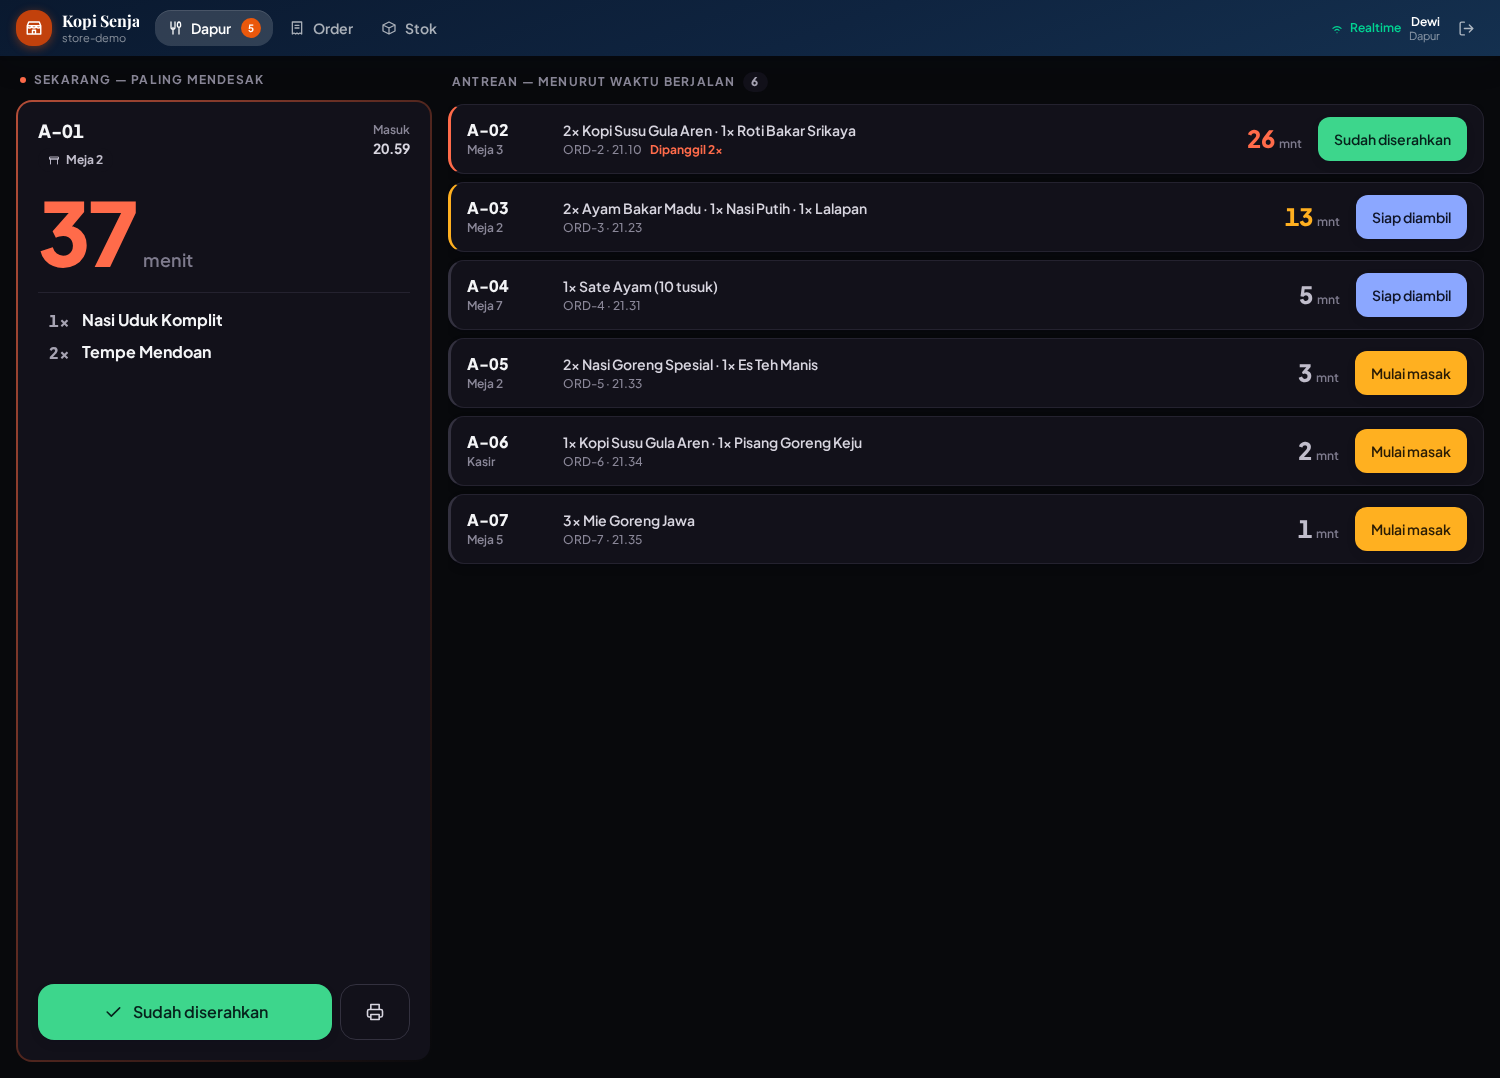
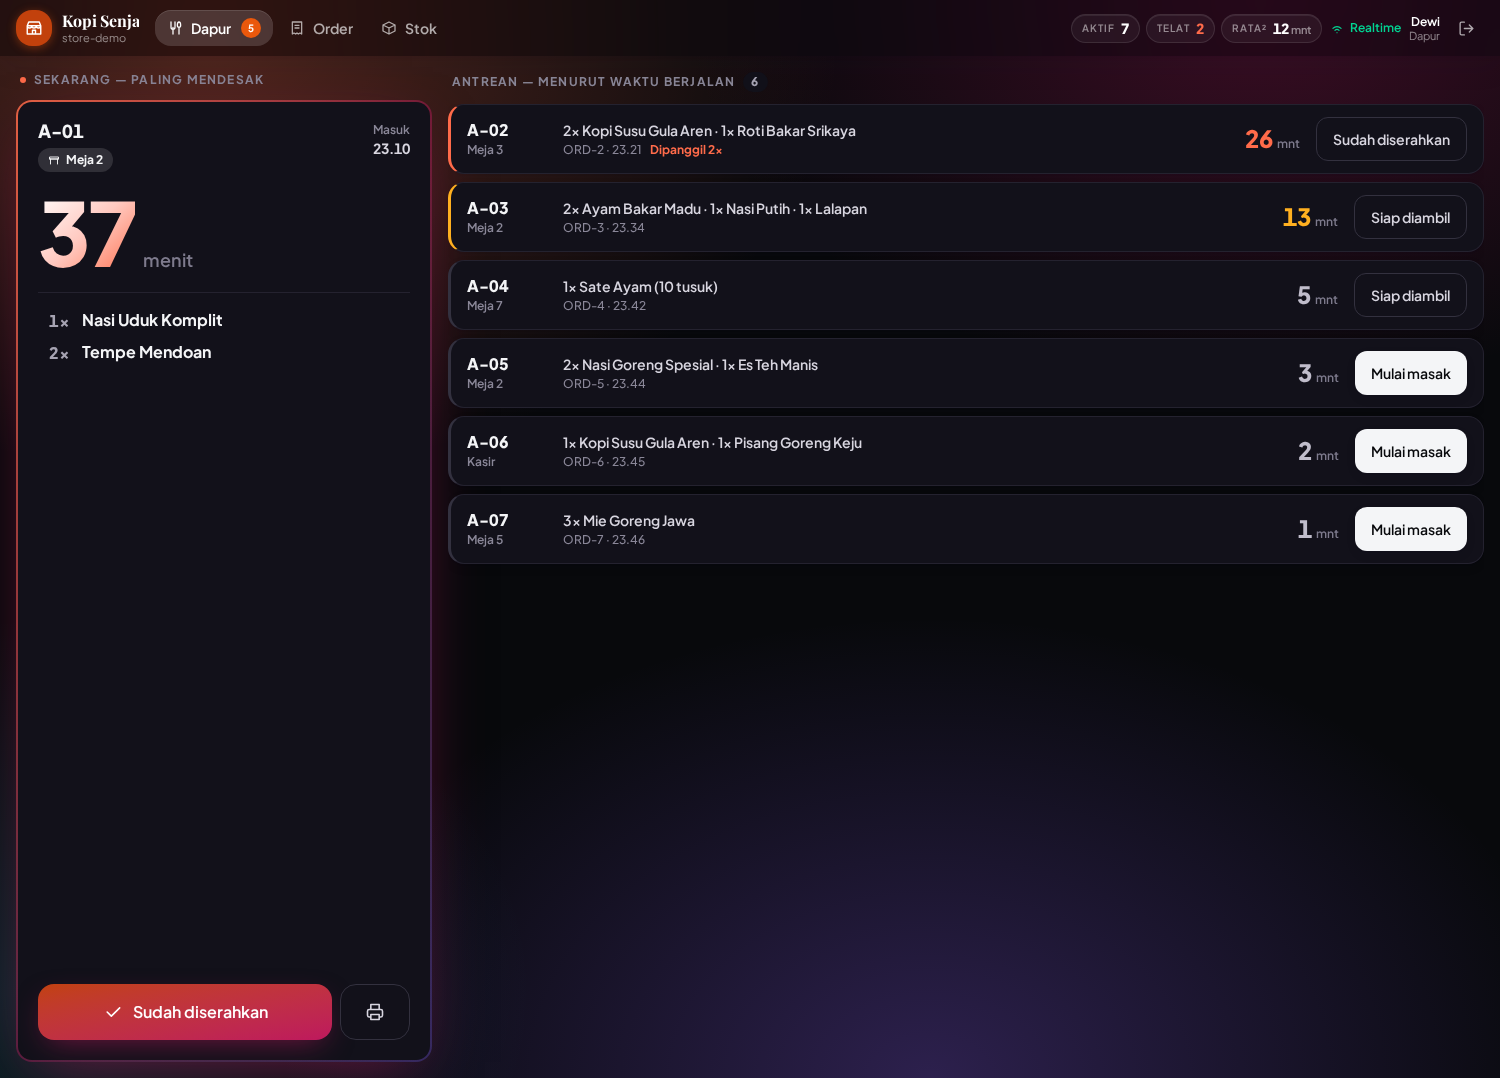
Buka pendar aurora tema Fokus yang tertutup, samakan dengan prototipenya
Tema Fokus tidak terlihat seperti rancangan yang sudah disetujui. Ternyata
bukan karena pendarannya belum ditulis — pendar itu sudah ada di app.css
sejak awal, tapi tidak pernah terlihat sama sekali.

Sebabnya: akar AdminShell berlatar `bg-ink-50` pekat, dan lapisan itu
menutupi `background-image` pada `body`. Seluruh pendar di belakangnya
tertutup rapat. Warna dasarnya sudah datang dari `body` di @layer base,
jadi lapisan di akar itu memang tidak diperlukan.

Yang diperbaiki:

- Akar tiap layar tidak lagi memasang latar pekat; aurora jadi terlihat.
- Pendar diperkuat (alpha 0,20-0,28 → 0,24-0,30) karena layar dapur sering
  dilihat dari jauh.
- Bilah atas jadi kaca gelap tembus pandang. `surface-dark` bawaan adalah
  gradien navy pekat untuk header TV antrian; di tema Fokus navy itu
  bertabrakan dengan pendar plum dan memotong aurora di tepi atas.
- Kartu utama: bingkai bergradien oranye→magenta→violet dengan pendar
  luar, angka menit bergradien, tombol utama bergradien (`aurora`).
- Lencana "Meja 2" di kartu utama memakai `chip`, bukan `ink-100`. Di tema
  Fokus keduanya bernilai sama dengan `surface`, jadi lencana itu tidak
  punya latar sama sekali dan menghilang.
- Tombol baris antrean dibuat netral. Sebelumnya empat sinyal berwarna
  berebut perhatian di satu baris; sekarang warna dibawa bilah aksen kiri,
  angka menit, dan teks tahap saja.
- Tiga pil statistik (Aktif/Telat/Rata²) di bilah atas, khusus tata letak
[…]

diff --git a/src/surfaces/admin/KitchenView.tsx b/src/surfaces/admin/KitchenView.tsx
@@ -101,6 +101,31 @@ function umurMenit(order: Order, sekarang: number): number {
   return Math.max(0, Math.floor((sekarang - Date.parse(order.createdAt)) / 60_000));
 }
 
+/**
+ * Ringkasan satu layar dapur untuk pil statistik di bilah atas.
+ *
+ * Diekspor supaya bilah atas dan isi layar memakai ambang yang sama persis.
+ * Kalau `MENIT_TERLAMBAT` di sini diubah, angka "TELAT" di atas ikut berubah —
+ * tidak mungkin keduanya berbeda cerita.
+ */
+export function statistikDapur(daftar: readonly Order[], sekarang: number) {
+  // `ready` ikut dihitung aktif. Pesanan yang sudah matang tapi belum
+  // diserahkan masih ada di tangan dapur — justru itu yang paling perlu
+  // diawasi. Kalau hanya pending+processing yang dihitung, angka "Telat"
+  // akan selalu 0 di jam sibuk: yang telat biasanya sudah matang dan
+  // menunggu diambil, bukan yang masih dimasak.
+  const aktif = daftar.filter(
+    (o) => o.status === 'pending' || o.status === 'processing' || o.status === 'ready',
+  );
+  const umur = aktif.map((o) => umurMenit(o, sekarang));
+  const jumlah = umur.length;
+  return {
+    aktif: jumlah,
+    telat: umur.filter((m) => m >= MENIT_TERLAMBAT).length,
+    rata: jumlah === 0 ? 0 : Math.round(umur.reduce((s, m) => s + m, 0) / jumlah),
+  };
+}
+
 /* ==========================================================================
    Aksi — satu definisi untuk kedua tata letak
    ========================================================================= */
@@ -389,7 +414,18 @@ function BarisAntrean({ order, sekarang, sibuk, onAdvance }: BarisAntreanProps) 
         <span class="ml-1 text-xs font-semibold text-ink-400">mnt</span>
       </p>
 
-      <Button variant={aksi.variant} size="md" loading={sibuk} onClick={onAdvance} class="shrink-0">
+      {/* Tombol baris dibuat netral, tidak diwarnai status. Warnanya sudah
+          dibawa bilah aksen kiri, angka menit, dan teks tahap; kalau tombolnya
+          ikut berwarna, empat sinyal berebut perhatian dan tidak ada yang
+          menonjol. Hanya "mulai masak" yang diberi isian penuh — itu yang
+          dicari mata juru masak begitu ada pesanan baru. */}
+      <Button
+        variant={order.status === 'pending' ? 'secondary' : 'outline'}
+        size="md"
+        loading={sibuk}
+        onClick={onAdvance}
+        class="shrink-0"
+      >
         {aksi.label}
       </Button>
     </article>
@@ -422,21 +458,24 @@ function DapurFokus({ daftar, sekarang, sibuk, onAdvance, onPrint }: FokusProps)
   const aksiUtama = aksiUntuk(utama);
   const menitUtama = umurMenit(utama, sekarang);
 
-  // Cincin luar kartu utama: makin telat, makin panas warnanya. Ini yang
-  // membuat kartu itu tetap menonjol bahkan saat layar dilihat dari jauh.
+  // Bingkai kartu utama: gradien hangat oranye→magenta→violet, senada pendar
+  // aurora di latarnya. Makin telat, ujung hangatnya makin merah — sinyal
+  // keterlambatan tetap terbaca, tapi bingkainya bukan lagi blok warna rata.
   const cincin =
     tingkatUtama === 'terlambat'
-      ? 'from-cancelled/70 via-cancelled/30'
+      ? 'from-cancelled/85 via-[#be185d]/45 to-[#8b5cf6]/30'
       : tingkatUtama === 'peringatan'
-        ? 'from-pending/70 via-pending/30'
-        : 'from-brand-600/60 via-brand-600/25';
+        ? 'from-pending/80 via-[#be185d]/40 to-[#8b5cf6]/28'
+        : 'from-[#c2410c]/80 via-[#be185d]/45 to-[#8b5cf6]/30';
 
-  const warnaAngka =
+  // Angka umur memakai huruf bergradien, bukan satu warna rata. Ujung
+  // hangatnya bergeser mengikuti keterlambatan supaya sinyalnya tidak hilang.
+  const angkaGradien =
     tingkatUtama === 'terlambat'
-      ? 'text-cancelled'
+      ? 'from-white via-[#ffc9c0] to-[#ff6b4a]'
       : tingkatUtama === 'peringatan'
-        ? 'text-pending'
-        : 'text-ink-900';
+        ? 'from-white via-[#ffe6b0] to-[#ffb020]'
+        : 'from-white via-[#ffd2c2] to-[#ff8a6b]';
 
   return (
     <div class="flex h-[calc(100dvh-56px)] gap-4 p-4">
@@ -447,14 +486,23 @@ function DapurFokus({ daftar, sekarang, sibuk, onAdvance, onPrint }: FokusProps)
           Sekarang — paling mendesak
         </p>
 
-        <div class={['flex min-h-0 flex-1 rounded-2xl bg-gradient-to-br to-transparent p-[2px]', cincin].join(' ')}>
+        <div
+          class={[
+            'flex min-h-0 flex-1 rounded-2xl bg-gradient-to-br p-[2px]',
+            'shadow-[0_20px_60px_-20px_rgb(190_24_93/0.55)]',
+            cincin,
+          ].join(' ')}
+        >
           <article class="flex min-h-0 flex-1 flex-col gap-4 overflow-y-auto rounded-[14px] bg-surface p-5">
             <header class="flex items-start justify-between gap-3">
               <div class="min-w-0">
                 <p class="num text-lg leading-none font-black text-ink-900">
                   {utama.queueNumber ?? '—'}
                 </p>
-                <p class="mt-2 inline-flex items-center gap-1.5 rounded-full bg-ink-100 px-2.5 py-1 text-xs font-bold text-ink-700">
+                {/* `bg-chip`, bukan `bg-ink-100`: di tema Fokus keduanya
+                    bernilai sama dengan `--color-surface`, jadi lencana ini
+                    tidak punya latar sama sekali dan menghilang. */}
+                <p class="mt-2 inline-flex items-center gap-1.5 rounded-full bg-chip px-2.5 py-1 text-xs font-bold text-on-chip">
                   <Icon name="table" size={12} />
                   {utama.tableNumber === null ? 'Kasir' : `Meja ${utama.tableNumber}`}
                 </p>
@@ -466,8 +514,15 @@ function DapurFokus({ daftar, sekarang, sibuk, onAdvance, onPrint }: FokusProps)
             </header>
 
             {/* Angka umur — elemen terkuat di seluruh layar. */}
-            <p class={['num flex items-baseline gap-2 leading-none font-black', warnaAngka].join(' ')}>
-              <span class="text-[5.5rem] tracking-tighter">{menitUtama}</span>
+            <p class="num flex items-baseline gap-2 leading-none font-black">
+              <span
+                class={[
+                  'bg-gradient-to-br bg-clip-text text-[5.5rem] tracking-tighter text-transparent',
+                  angkaGradien,
+                ].join(' ')}
+              >
+                {menitUtama}
+              </span>
               <span class="text-lg font-semibold text-ink-400">menit</span>
             </p>
 
@@ -496,7 +551,7 @@ function DapurFokus({ daftar, sekarang, sibuk, onAdvance, onPrint }: FokusProps)
 
             <footer class="flex items-stretch gap-2">
               <Button
-                variant={aksiUtama.variant}
+                variant="aurora"
                 size="lg"
                 icon={aksiUtama.icon}
                 loading={sibuk === utama.id}

diff --git a/src/surfaces/admin/AdminShell.tsx b/src/surfaces/admin/AdminShell.tsx
@@ -38,7 +38,7 @@ import {
 import { ROLE_LABEL, type AdminView } from '../../domain/permissions.ts';
 import { StockView } from './StockView.tsx';
 import { AnalyticsView } from './AnalyticsView.tsx';
-import { KitchenView } from './KitchenView.tsx';
+import { KitchenView, statistikDapur } from './KitchenView.tsx';
 import { LoginView } from './LoginView.tsx';
 import { MenuView } from './MenuView.tsx';
 import { OrdersView } from './OrdersView.tsx';
@@ -51,6 +51,8 @@ import {
   type Periode,
 } from './useAdminActions.ts';
 import { orderStats, orders, displayOrder, categories, menus, tables, loading } from '../../state/store.ts';
+import { tataLetakTema } from '../../domain/theme.ts';
+import { theme } from '../../state/theme.ts';
 
 /* ==========================================================================
    Navigasi
@@ -74,6 +76,34 @@ function tabDariUrl(): Tab {
   return TABS.some((x) => x.id === t) ? (t as Tab) : 'kasir';
 }
 
+/** Pil angka ringkas di bilah atas — dipakai layar dapur. */
+function PilStat({
+  label,
+  nilai,
+  satuan,
+  panas,
+}: {
+  label: string;
+  nilai: string;
+  satuan?: string;
+  panas?: boolean;
+}) {
+  return (
+    <span class="flex items-center gap-1.5 rounded-lg border border-white/10 bg-white/5 px-2.5 py-1.5 shadow-[inset_0_1px_0_rgb(255_255_255/0.08)]">
+      <span class="text-[10px] font-semibold tracking-widest text-white/50 uppercase">{label}</span>
+      <span
+        class={[
+          'num text-sm leading-none font-black',
+          panas ? 'text-cancelled' : 'text-white',
+        ].join(' ')}
+      >
+        {nilai}
+        {satuan ? <span class="ml-0.5 text-[11px] font-semibold text-white/50">{satuan}</span> : null}
+      </span>
+    </span>
+  );
+}
+
 /* ==========================================================================
    Shell
    ========================================================================= */
@@ -84,6 +114,23 @@ export function AdminShell() {
   const [periode, setPeriode] = useState<Periode>('hari');
 
   const aksi = useAdminActions();
+
+  // Jam untuk pil statistik dapur. Berdetak hanya saat tab dapur terbuka —
+  // di tab lain tidak ada yang perlu dihitung ulang tiap 10 detik.
+  const [sekarang, setSekarang] = useState(() => Date.now());
+  const dapurAktif = tab === 'dapur' && tataLetakTema(theme.value) === 'fokus';
+  useEffect(() => {
+    if (!dapurAktif) return;
+    setSekarang(Date.now());
+    const id = setInterval(() => setSekarang(Date.now()), 10_000);
+    return () => clearInterval(id);
+  }, [dapurAktif]);
+
+  // Pil statistik hanya untuk tata letak Fokus — itu bagian dari rancangan
+  // layar itu. Papan tiga kolom sudah punya hitungannya sendiri di tiap judul
+  // kolom, dan menambah tiga pil di atasnya membuat bilah atas penuh tanpa
+  // menambah informasi yang belum ada.
+  const dapur = dapurAktif ? statistikDapur(orders.value, sekarang) : null;
 
   /* --- Muat awal -------------------------------------------------------- */
 
@@ -157,7 +204,7 @@ export function AdminShell() {
 
   if (!siap) {
     return (
-      <div class="flex min-h-dvh items-center justify-center bg-ink-50">
+      <div class="flex min-h-dvh items-center justify-center">
         <LoadingBlock label="Menyiapkan…" />
       </div>
     );
@@ -170,9 +217,17 @@ export function AdminShell() {
   const s = settings.value;
 
   return (
-    <div class="min-h-dvh bg-ink-50">
+    // Sengaja TANPA `bg-ink-50`. Warna dasar sudah datang dari `body`, dan
+    // lapisan pekat di sini menutupi pendar aurora tema Fokus sepenuhnya —
+    // seluruh pendar di app.css tidak pernah terlihat sampai lapisan ini
+    // dibuang.
+    <div class="min-h-dvh">
       {/* ================================================================ */}
-      <header class="surface-dark sticky top-0 z-30 text-white shadow-lift">
+      {/* Efek kaca hanya di tema Fokus, dan dipasang sebagai kelas Tailwind —
+          bukan di app.css — karena minifier menggabungkan `backdrop-filter`
+          dengan varian `-webkit-`-nya dan menyisakan yang berawalan saja, yang
+          tidak didukung Chrome. Lihat catatan di app.css. */}
+      <header class="surface-dark sticky top-0 z-30 text-white shadow-lift [[data-theme=fokus]_&]:backdrop-blur-xl [[data-theme=fokus]_&]:backdrop-saturate-150">
         <div class="flex items-center gap-4 px-4 py-2.5">
           {/* Identitas toko --------------------------------------------- */}
           <div class="flex min-w-0 items-center gap-2.5">
@@ -225,6 +280,15 @@ export function AdminShell() {
 
           {/* Kanan -------------------------------------------------------- */}
           <div class="flex shrink-0 items-center gap-2">
+            {/* Pil statistik dapur. Hanya muncul di tab itu — angkanya khusus
+                dapur, dan di tab kasir atau menu justru menyesatkan. */}
+            {dapur ? (
+              <div class="hidden items-center gap-1.5 lg:flex">
+                <PilStat label="Aktif" nilai={String(dapur.aktif)} />
+                <PilStat label="Telat" nilai={String(dapur.telat)} panas={dapur.telat > 0} />
+                <PilStat label="Rata²" nilai={String(dapur.rata)} satuan="mnt" />
+              </div>
+            ) : null}
             <IndikatorTulis />
             <ConnectionPill status={realtimeStatus.value} dark />
             <span class="hidden text-right lg:block">

diff --git a/src/styles/app.css b/src/styles/app.css
@@ -274,15 +274,39 @@
    Dipasang sebagai `background-image` pada body, bukan sebagai elemen
    ber-`position:fixed`. Alasannya: elemen fixed butuh konteks penumpukan
    sendiri, dan itu mudah salah di aplikasi ber-modal — modal bisa tertinggal
-   di belakang pendar. Sebagai latar body, tidak ada lapisan baru sama sekali. */
+   di belakang pendar. Sebagai latar body, tidak ada lapisan baru sama sekali.
+
+   SYARAT: tidak boleh ada elemen leluhur yang menutupi body dengan warna
+   rata. Karena itu akar tiap layar memakai `bg-transparent`, bukan
+   `bg-ink-50` — warna dasarnya sudah datang dari `body` di @layer base.
+   Sebelum ini akar AdminShell berlatar `bg-ink-50` pekat, dan seluruh
+   pendar ini tidak pernah terlihat sama sekali. */
 [data-theme='fokus'] body {
   background-color: var(--color-ink-50);
   background-image:
-    radial-gradient(900px 620px at 14% 4%, rgb(255 107 74 / 0.2), transparent 70%),
-    radial-gradient(820px 560px at 84% 0%, rgb(225 29 116 / 0.16), transparent 70%),
-    radial-gradient(900px 640px at 62% 100%, rgb(139 92 246 / 0.2), transparent 72%),
-    radial-gradient(700px 520px at 2% 92%, rgb(34 211 238 / 0.09), transparent 72%);
+    radial-gradient(900px 620px at 14% 4%, rgb(255 107 74 / 0.3), transparent 70%),
+    radial-gradient(820px 560px at 84% 0%, rgb(225 29 116 / 0.24), transparent 70%),
+    radial-gradient(900px 640px at 62% 100%, rgb(139 92 246 / 0.28), transparent 72%),
+    radial-gradient(700px 520px at 2% 92%, rgb(34 211 238 / 0.13), transparent 72%);
   background-attachment: fixed;
+}
+
+/* Bilah atas ikut tema Fokus.
+   `surface-dark` bawaan adalah gradien biru navy pekat — dipilih untuk header
+   TV antrian. Di tema Fokus, navy bertabrakan dengan pendar plum/oranye, dan
+   blok pekatnya memotong aurora tepat di tepi atas layar. Di sini bilah itu
+   jadi kaca gelap tembus pandang, seperti prototipe.
+
+   CATATAN: `backdrop-filter` sengaja TIDAK ditulis di sini. Minifier
+   (Lightning CSS) menggabungkan `backdrop-filter` + `-webkit-backdrop-filter`
+   menjadi satu, dan menyisakan HANYA versi `-webkit-` — padahal Chrome
+   mendukung versi standarnya dan justru tidak mendukung versi berawalan itu
+   (`CSS.supports('-webkit-backdrop-filter', …)` bernilai false). Akibatnya
+   efek kaca diam-diam tidak pernah aktif. Karena itu efek blur dipasang lewat
+   kelas Tailwind di komponennya, yang keluarannya tidak ikut digabung. */
+[data-theme='fokus'] .surface-dark {
+  background-image: none;
+  background-color: rgb(8 9 12 / 0.55);
 }
 
 /* ============================================================================

diff --git a/src/ui/components.tsx b/src/ui/components.tsx
@@ -30,7 +30,12 @@ export type ButtonVariant =
      semuanya lolos AA (pending 6.84:1, processing 6.16:1, done 5.21:1). */
   | 'stage-baru'
   | 'stage-masak'
-  | 'stage-siap';
+  | 'stage-siap'
+  /* Tombol utama tema Fokus. Gradien hangat oranye→magenta, senada pendar
+     aurora di latarnya. Dua ujungnya sengaja dipilih yang lebih gelap:
+     putih di atas #FF8A5B — gradien prototipe aslinya — hanya 2,32:1 dan
+     gagal telak, sedangkan #C2410C sudah 5,18:1. */
+  | 'aurora';
 export type ButtonSize = 'sm' | 'md' | 'lg';
 
 const VARIANTS: Record<ButtonVariant, string> = {
@@ -47,6 +52,9 @@ const VARIANTS: Record<ButtonVariant, string> = {
   'stage-baru': 'bg-pending text-on-pending hover:brightness-110 active:brightness-95 shadow-card',
   'stage-masak': 'bg-processing text-on-processing hover:brightness-110 active:brightness-95 shadow-card',
   'stage-siap': 'bg-done text-on-done hover:brightness-110 active:brightness-95 shadow-card',
+  aurora:
+    'bg-gradient-to-br from-[#c2410c] to-[#be185d] text-white ' +
+    'shadow-[0_10px_30px_-10px_rgb(190_24_93/0.6)] hover:brightness-110 active:brightness-95',
 };
 
 const SIZES: Record<ButtonSize, string> = {

diff --git a/src/surfaces/order/OrderApp.tsx b/src/surfaces/order/OrderApp.tsx
@@ -188,7 +188,7 @@ export function OrderApp({
   /* --- Menu ------------------------------------------------------------- */
 
   return (
-    <div class="flex min-h-dvh flex-col bg-ink-50 pb-24">
+    <div class="flex min-h-dvh flex-col pb-24">
       <header class="sticky top-0 z-10 bg-ink-950 px-5 py-4 text-white">
         <div class="flex items-center justify-between gap-3">
           <div class="min-w-0">

diff --git a/src/surfaces/home/main.tsx b/src/surfaces/home/main.tsx
@@ -107,7 +107,7 @@ function App() {
   }
 
   return (
-    <div class="min-h-dvh bg-ink-50">
+    <div class="min-h-dvh">
       <header class="safe-x border-b border-ink-200 bg-surface">
         <div class="mx-auto flex max-w-5xl items-center justify-between gap-4 py-5">
           <div class="flex items-center gap-3">
